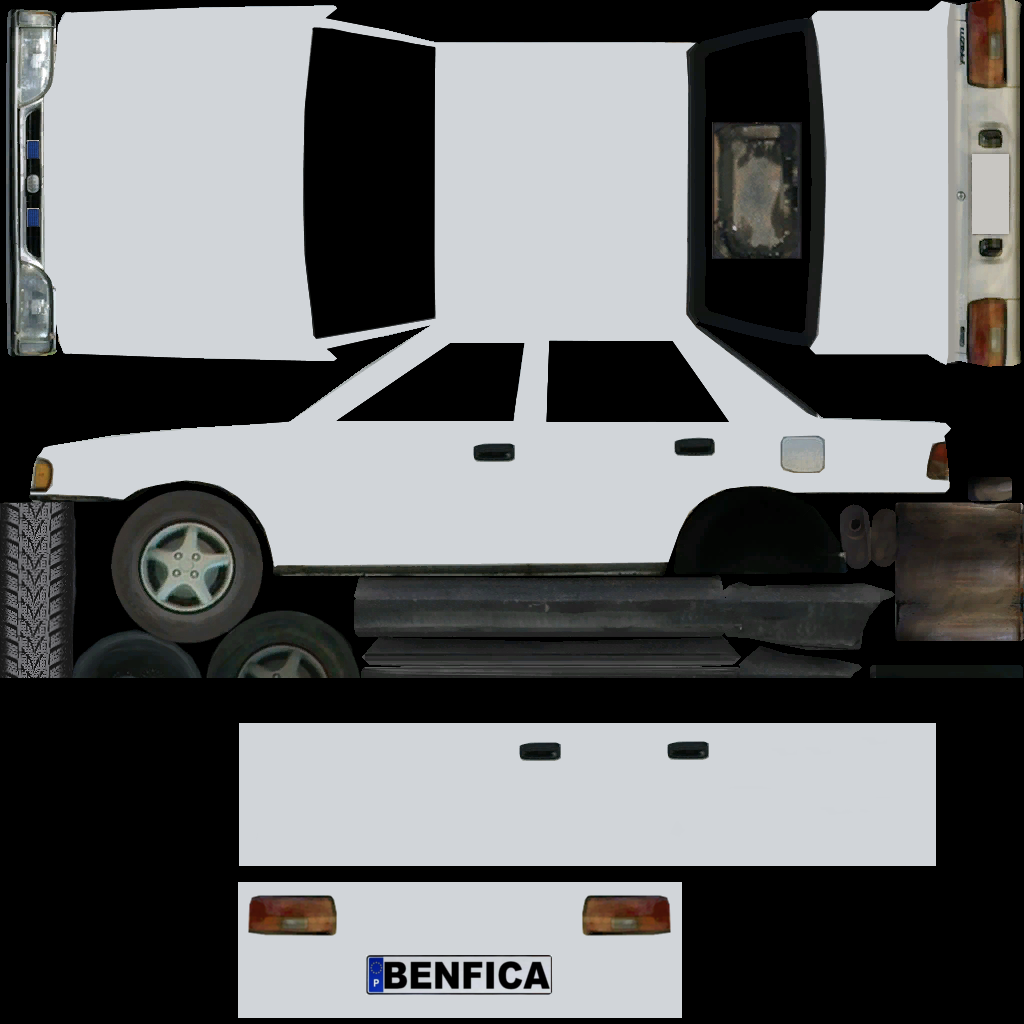
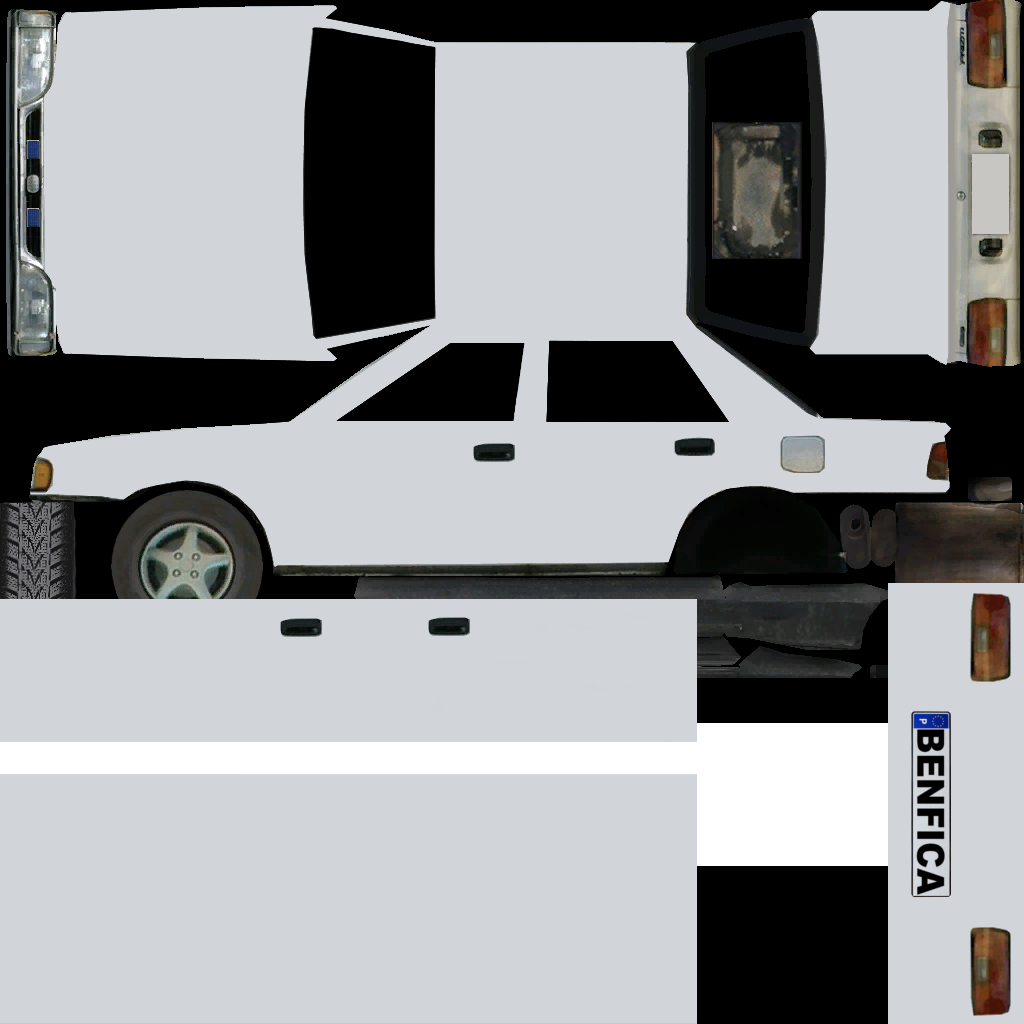
Updated car textures

Changed region(s): [[0.0, 0.5625, 1.0, 1.0]]

diff --git a/6/tp6/MyVehicle.js b/6/tp6/MyVehicle.js
@@ -504,32 +504,37 @@ class MyBody extends CGFobject
 
 
 		this.texCoords = [
-		0.232421875, 0.9931640625,
-		0.232421875, 0.861328125,
-		0.6650390625, 0.9931640625,
-		0.6650390625, 0.861328125,
-		0.91406, 0.8457,
-		0.91406, 0.70703125,
-		0.2334, 0.8457,
-		0.2334, 0.70703125,
+		0.8681640625, 0.5732421875,
+		1, 0.5732421875,
+		0.8681640625, 1,
+		1, 1,
+
+		0.6806640625, 0.724609375,
+		0.6806640625, 0.5859375,
+		0.0, 0.724609375,
+		0.0, 0.5859375,
+
 		0.1396484375, 0.0830078125,
 		0.1396484375, 0.0830078125,
 		0.1396484375, 0.0830078125,
 		0.1396484375, 0.0830078125,
-		0.2334, 0.8457,
-		0.2334, 0.70703125,
-		0.91406, 0.8457,
-		0.91406, 0.70703125,
-		0.1396484375, 0.0830078125,
-		0.1396484375, 0.0830078125,
-		0.1396484375, 0.0830078125,
-		0.1396484375, 0.0830078125,
-		0.1396484375, 0.0830078125,
-		0.1396484375, 0.0830078125,
-		0.1396484375, 0.0830078125,
-		0.1396484375, 0.0830078125,
-		0.1396484375, 0.0830078125,
-		0.1396484375, 0.0830078125
+
+		0.0, 0.724609375,
+		0.0, 0.5859375,
+		0.6806640625, 0.724609375,
+		0.6806640625, 0.5859375,
+
+		0.11328125, 0.09765625,
+		0.11328125, 0.09765625,
+		0.11328125, 0.09765625,
+		0.11328125, 0.09765625,
+		0.11328125, 0.09765625,
+
+		0.0, 1,
+		0.0, 0.7568359375,
+		0.6806640625, 1,
+		0.6806640625, 0.7568359375,
+		0.34033203125, 0.87841796875
 		];
 
 
